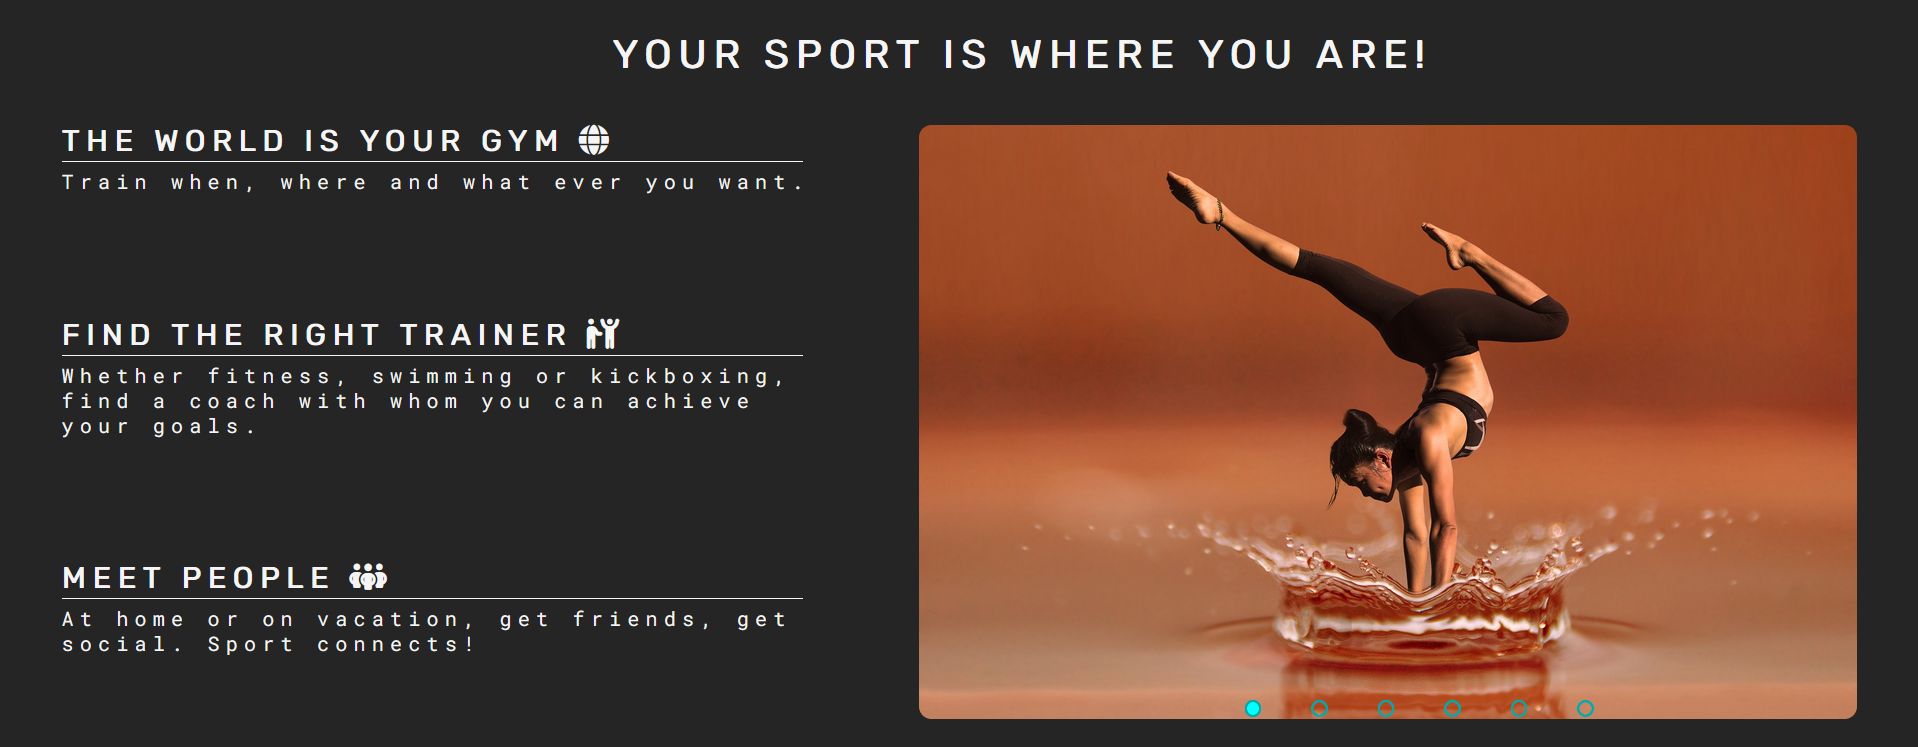
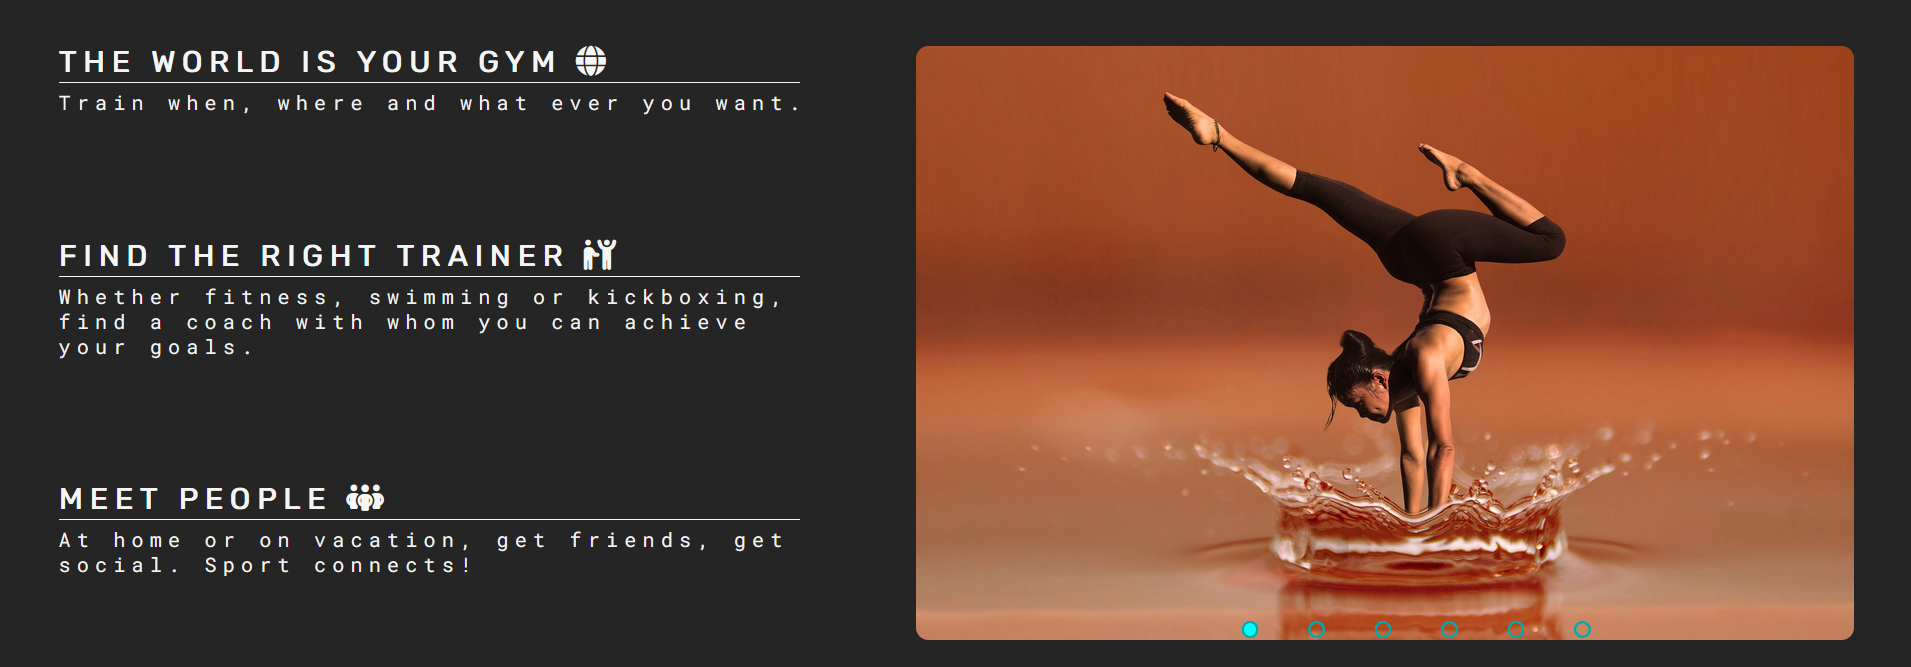
filled withe space in mq-thx, login, sport-category with image

diff --git a/assets/css/style.css b/assets/css/style.css
@@ -787,7 +787,7 @@ footer i {
     background: url("../images/bike-gca785d82e_1920.jpg");
     background-size: cover;
     background-position: center;
-    height: 600px;
+    height: 800px;
     display: flex;
     justify-content: center;
     align-items: center;
@@ -904,12 +904,22 @@ footer i {
 /**************************answer.html end***************************/
 
 /**************************thx.html start***************************/
+.thank-you {
+    clear: left;
+    background: url("../images/football-g3b5b206e7_1920_bearbeitet.jpg");
+    background-size: cover;
+    background-position: center;
+    height: 800px;
+    display: flex;
+    justify-content: center;
+    align-items: center;
+    margin-top: 100px;
+}
+
 
 #thank-you-text {
-    position: absolute;
+    /* position: absolute;
     top: 600px;
-/* left: 150px; */
-    /* width: fit-content; */
     height: fit-content;
     text-transform: uppercase;
     letter-spacing: 3px;
@@ -918,13 +928,33 @@ footer i {
     background-color: rgb(37, 37, 37, 0.7);
     color: whitesmoke;
     text-align: center;
-    /* width: 90%; */
-    margin: 0 80px 0 80px;
+    margin: 0 80px 0 80px; */
+    color: whitesmoke;
+    background-color: rgb(37, 37, 37, 0.7);
+    position: absolute;
+    padding: 50px;
+    margin: 0 300px;
+    font-size: 150%;
 }
 
 #thank-you-text h2 {
-    font-size: 130%;
+    font-size: 120%;
+    color: whitesmoke;
+    margin-bottom: 20px;
 }
+
+/* .signup-form {
+    color: whitesmoke;
+    background-color: rgb(37, 37, 37, 0.7);
+    position: absolute;
+    padding: 30px;
+    margin: 0 400px;
+}
+
+.signup-form h1 {
+    color: whitesmoke;
+    margin-bottom: 20px;
+} */
 
 /**************************thx.html end***************************/
 
@@ -1168,7 +1198,8 @@ footer i {
         position: relative;
         display: block;
         margin: auto; */
-        margin-top: -55px;
+        /* margin-top: -55px; */
+        margin: 50px;
 }
 }
 /************************MQ until 950px***********************************/
@@ -1219,10 +1250,10 @@ footer i {
     #thank-you-text {
         /* height: 120px;
         padding: 25px; */
-        top: 350px;
+        /* top: 350px; */
         /* display: inline-grid; */
         /* width: 90%; */
-        font-size: 80%;
+        font-size: 100%;
     }
 
 }
@@ -1432,6 +1463,7 @@ footer i {
     .menu2 > li:not(:last-child) {
       border-bottom: 1px solid #444;
     }
+/**************burger end***************/
 
     #thank-you-text {
         /* height: 250px; */
@@ -1440,7 +1472,7 @@ footer i {
         display: grid;
         top: 300px;
         font-size: 70%; */
-        margin: unset;
+        /* margin: unset;
         margin-top: unset;
         top: unset;
         position: relative;
@@ -1449,7 +1481,7 @@ footer i {
         padding: 25px;
         background-color: rgb(37, 37, 37);
         border-bottom: 1px solid whitesmoke;
-        border-top: 1px solid whitesmoke;
+        border-top: 1px solid whitesmoke; */
     }
 }
 /********************************MQ 500px************************************************/
@@ -1522,18 +1554,8 @@ footer i {
     }
 
     #thank-you-text {
-        /* justify-content: center;
-        display: grid;
-        font-size: xx-small;
-        height: unset; */
-        /* height: 130px; */
-        /* padding: 20px;
-        justify-content: center;
-        font-size: 40%;
-        padding: 5px;
-        top: 290px;
-        width: 100%; */
-        font-size: 70%;
+        padding: 10px;
+        /* top: 150px; */
     }
 
     .thx-img {

diff --git a/thx.html b/thx.html
@@ -72,18 +72,26 @@
 
 <!--***************************section1 start-image-start***************************-->
 
-    <section id="start-img-index">
-        <img src="assets/images/fitness-gca94814df_1920.jpg" class="thx-img" alt="Trainer Man" style = "width:100%; height: auto">
+    <!-- <section id="start-img-index">
+        <img src="assets/images/fitness-gca94814df_1920.jpg" class="thx-img" alt="Trainer Man" style = "width:100%; height: auto"> -->
         <!-- <div id="thank-you-text">
             <h1>Welcome to Coachfinder!</h1>
             <h2>Your registration is being processed. You will receive an e-mail with a confirmation link shortly.</h2>
         </div> -->
-    </section>
+    <!-- </section>
     <section>
         <div id="thank-you-text">
             <h1>Welcome to Coachfinder!</h1>
             <h2>Your registration is being processed. You will receive an e-mail with a confirmation link shortly.</h2>
         </div>
+    </section> -->
+
+    <section class="thank-you">
+      <div id="thank-you-text">
+        <h1>Welcome to Coachfinder!</h1>
+        <br>
+        <h2>Your registration is being processed. You will receive an e-mail with a confirmation link shortly.</h2>
+    </div>
     </section>
 
 <!--***************************section1 start-image-End***************************-->

diff --git a/sport-category.html b/sport-category.html
@@ -76,7 +76,7 @@
     </section> -->
 
     <section id="start-img-index">
-        <img src="assets/images/Kategoriebild-Ballsport.jpg" class="thx-img" alt="ball-sports" style = "width:100%; height: auto">
+        <img src="assets/images/Kategoriebild-Ballsport.jpg" class="thx-img" alt="ball-sports" style = "width:fit-content; height: 900px">
     </section> 
     <section>  
         <div class="sports-category-dropdown-backgroung">

diff --git a/README.md b/README.md
@@ -31,6 +31,8 @@ Coachfinder is a website that enables people from all over the world to practice
 
 - Hamburger Menu
 
+<img src="assets/images/screenshot-burger.png" alt="Burger">
+<img src="assets/images/screenshot-burger-dropdown.png" alt="Burger + Dropdown">
 
 - __The landing page image__
 
@@ -40,7 +42,7 @@ Coachfinder is a website that enables people from all over the world to practice
 
 - Landing Page image
 
-<img src="assets/images/mountain-paar-bearbeitet2.jpg" alt="Landing Page" height="50%" width="50%">
+<img src="assets/images/screeshot-mountain-paar.png" alt="Landing Page" height="50%" width="50%">
 
 - __The Footer__ 
 
